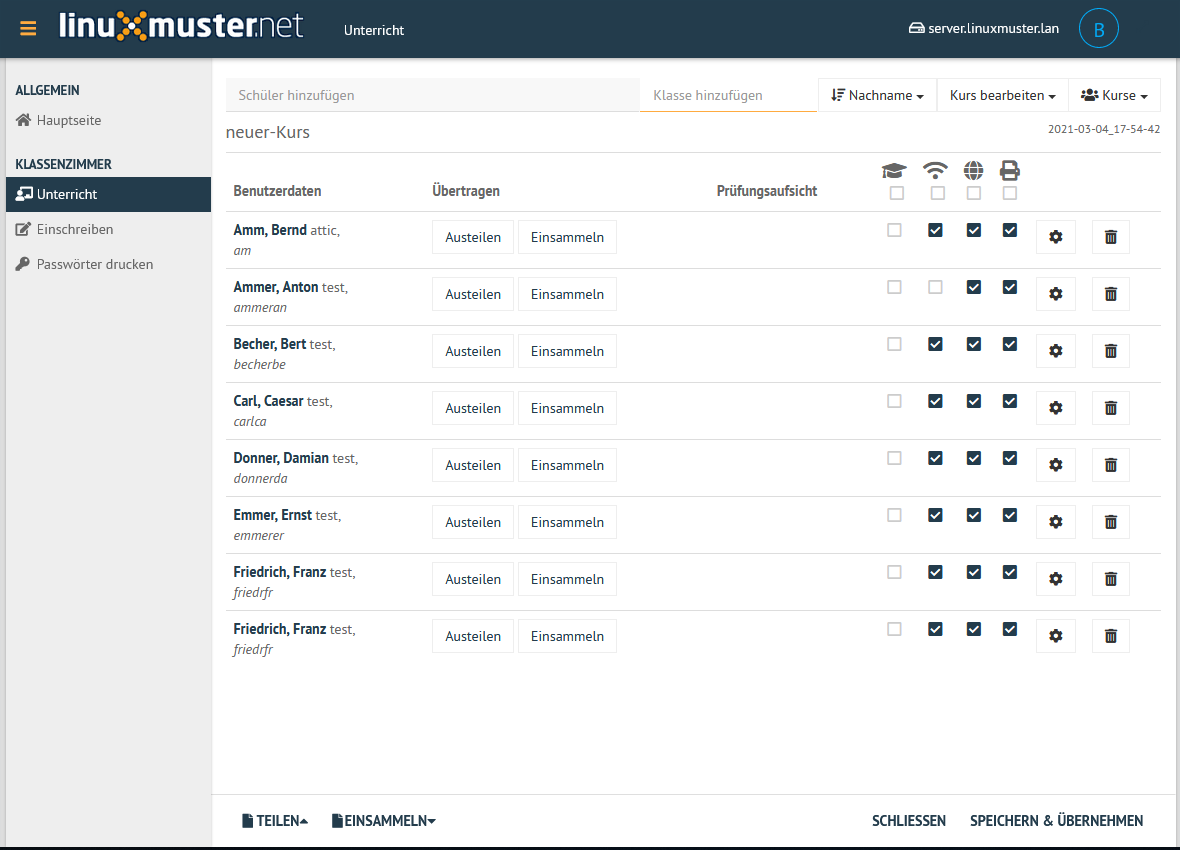
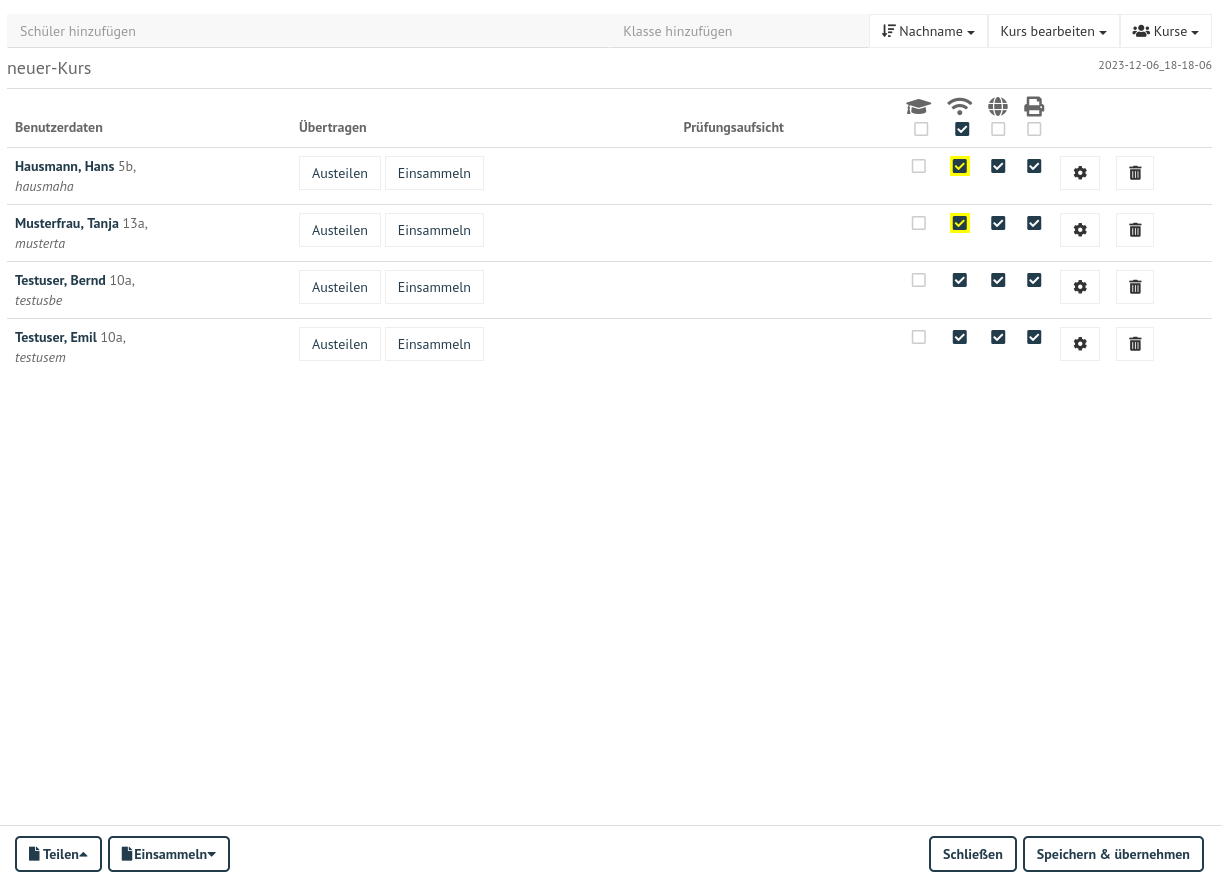
revised webui course creation and editing, new pics

diff --git a/source/classroom/webui-basics/index.rst b/source/classroom/webui-basics/index.rst
@@ -16,8 +16,8 @@ Schulkonsole in einem Browser vornehmen.
        
    Schulkonsole als Lehrer nach der Anmeldung
 
-Allgemeine Bedienung
-====================
+Allgemein
+=========
 
 Die Schulkonsole wird im Browser über ``https://10.0.0.1`` aufgerufen. Je nachdem welcher Benutzer angemeldet ist, erscheinen
 zugehörige Menüpunkte.
@@ -72,8 +72,8 @@ Das Menü kannst Du durch Anklicken der drei Striche links neben dem linuxmuster
 
 Die Schulkonsole des Lehrers teilt sich auf die Bereiche ``Allgemein`` und ``Klassenzimmer``.
 
-Allgemein
-=========
+Nutzung
+=======
 
 Hauptseite
 ----------
@@ -143,8 +143,15 @@ Klickst Du nun auf eine Klasse, so wird diese mit den eingetragenen Benutzern zu
 Kurse erstellen
 ---------------
 
-Unter Kurse können Sie über die Funktion oben rechts ``Neuer Kurs`` einen neuen Kurs anlegen. Geben Sie dazu den
-Kursnamen ein und bestätigen mit OK.
+Unter Kurse kannst Du über die Funktion oben rechts ``Neuer Kurs`` einen neuen Kurs anlegen. 
+
+.. figure:: media/11_webui-basics_new-class-button.png
+   :align: center
+   :alt: WebUI New Class Button
+   
+   Wähle den Eintrag Neuer Kurs
+
+Gebe in dem sich öffnenden Fenster den neuen Kursnamen ein und bestätige dies mit ``OK``.
 
 .. figure:: media/11_webui-basics_new-class.png
    :align: center
@@ -152,25 +159,45 @@ Kursnamen ein und bestätigen mit OK.
    
    Neuen Kurs erstellen
 
+Der neu angelegte Kurs erscheint im Menü ``Unterricht`` -> unter der Rubrik ``Meine Kurse``.
+
+.. figure:: media/11_webui-basics_my-courses.png
+   :align: center
+   :alt: WebUI my courses
+   
+   Meine Kurse
+
+In obiger Abbildung siehst Du, dass in dem neu angelegten Kurs, noch keine Schüler zugewiesen wurden.
+
+
 Schüler einem Kurs hinzufügen
 -----------------------------
 
-Um Schüler einem Kurs hinzuzufügen, den jeweiligen Kurs auswählen. In den oberen Zeilen gibt es nun die
-Möglichkeit über ``Schüler hinzufügen`` einzelne Schüler hinzuzufügen oder über ``Klasse hinzufügen`` eine ganze Schulklasse.
-Um die Übernahme der ausgewählten Benutzer in den Kurs anzuwenden, unten rechts mit ``Speichern & Übernehmen`` bestätigen.
+Um Schüler einem Kurs hinzuzufügen, wählst Du den gewünschten Kurse via Klick auf das Icon des Kurses aus.
+
+.. figure:: media/12_webui-basics_selected_course.png
+   :align: center
+   :alt: seclected course
+   
+   Ausgwählter Kurs
+
+In den oberen Zeilen gibt es nun die Möglichkeit über ``Schüler hinzufügen`` einzelne Schüler hinzuzufügen oder über ``Klasse hinzufügen`` eine ganze Schulklasse dem Kurs hinzuzufügen. Klickst Du in das Feld ``Schüler hinzufügen`` gibst Du die ersten beiden Buchstaben des Schülernamens ein und es erscheint eine Liste mit Schülern, deren Nachname mit diesen Buchstaben beginnt.
 
 .. figure:: media/12_webui-basics_add-class-members.png
    :align: center
-   :alt: WebUI Add Class Members
+   :alt: add pupils to course
+   
+   Ausgwählter Kurs: Schüler hinzufügen
 
-Wählen Sie nun einen bestimmten Kurs aus, finden Sie eine Ansicht nach folgendem Schema vor.
+Hast Du alle gewünschten Schüler ausgewählt, siehst Du eine Liste mit allen Schülern des Kurses. Um diese in den Kurs zu übernehmen, klickst Du abschließend unten rechts auf ``Speichern & übernehmen``.
+
+Wählst Du einen bestimmten Kurs oder eine bestimmte Klasse aus, findest Du folgende Ansicht vor.
 
 .. figure:: media/13_webui-basics_class-overview.png
    :align: center
    :alt: WebUI Class Overview
 
-In dieser Übersicht können die pädagogischen Funktionen WLAN-, Internet- & Drucker-Freigabe, Dateien-Übertragungs-
-Funktion und Prüfungsmodus genutzt werden.
+In dieser Übersicht können die pädagogischen Funktionen WLAN-, Internet- & Drucker-Freigabe, Dateien-Übertragungs-Funktion und Prüfungsmodus genutzt werden.
 
 WLAN-, Internet-Freigabe & Drucker-Freigabe
 -------------------------------------------
